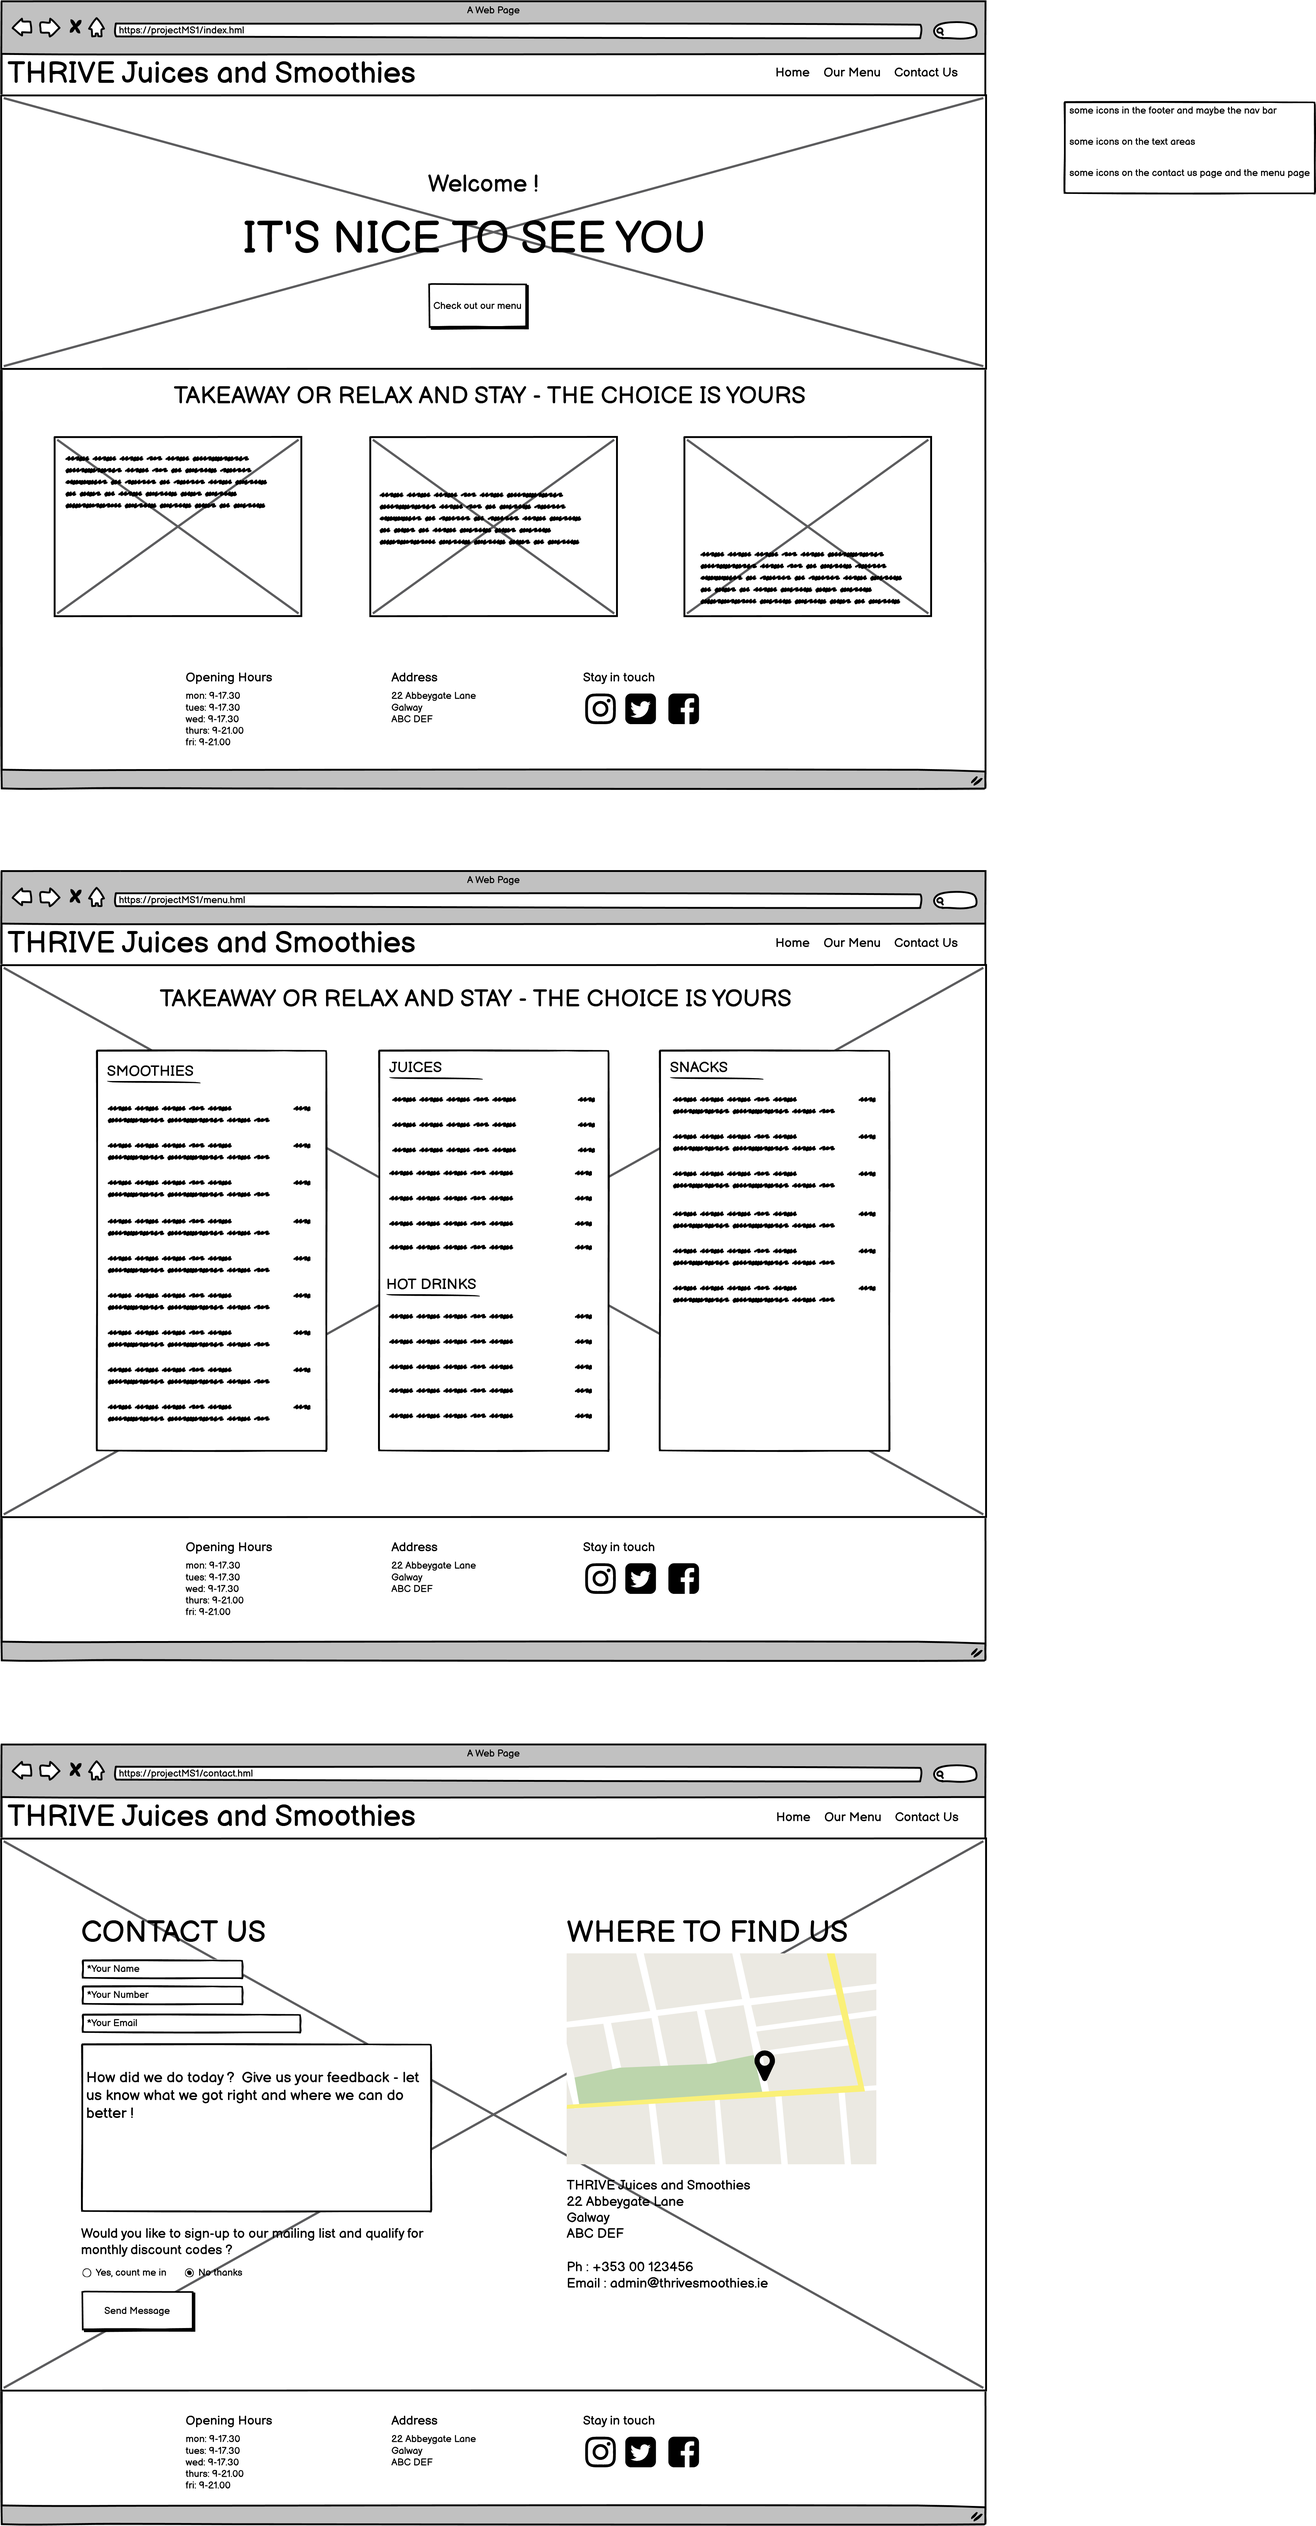
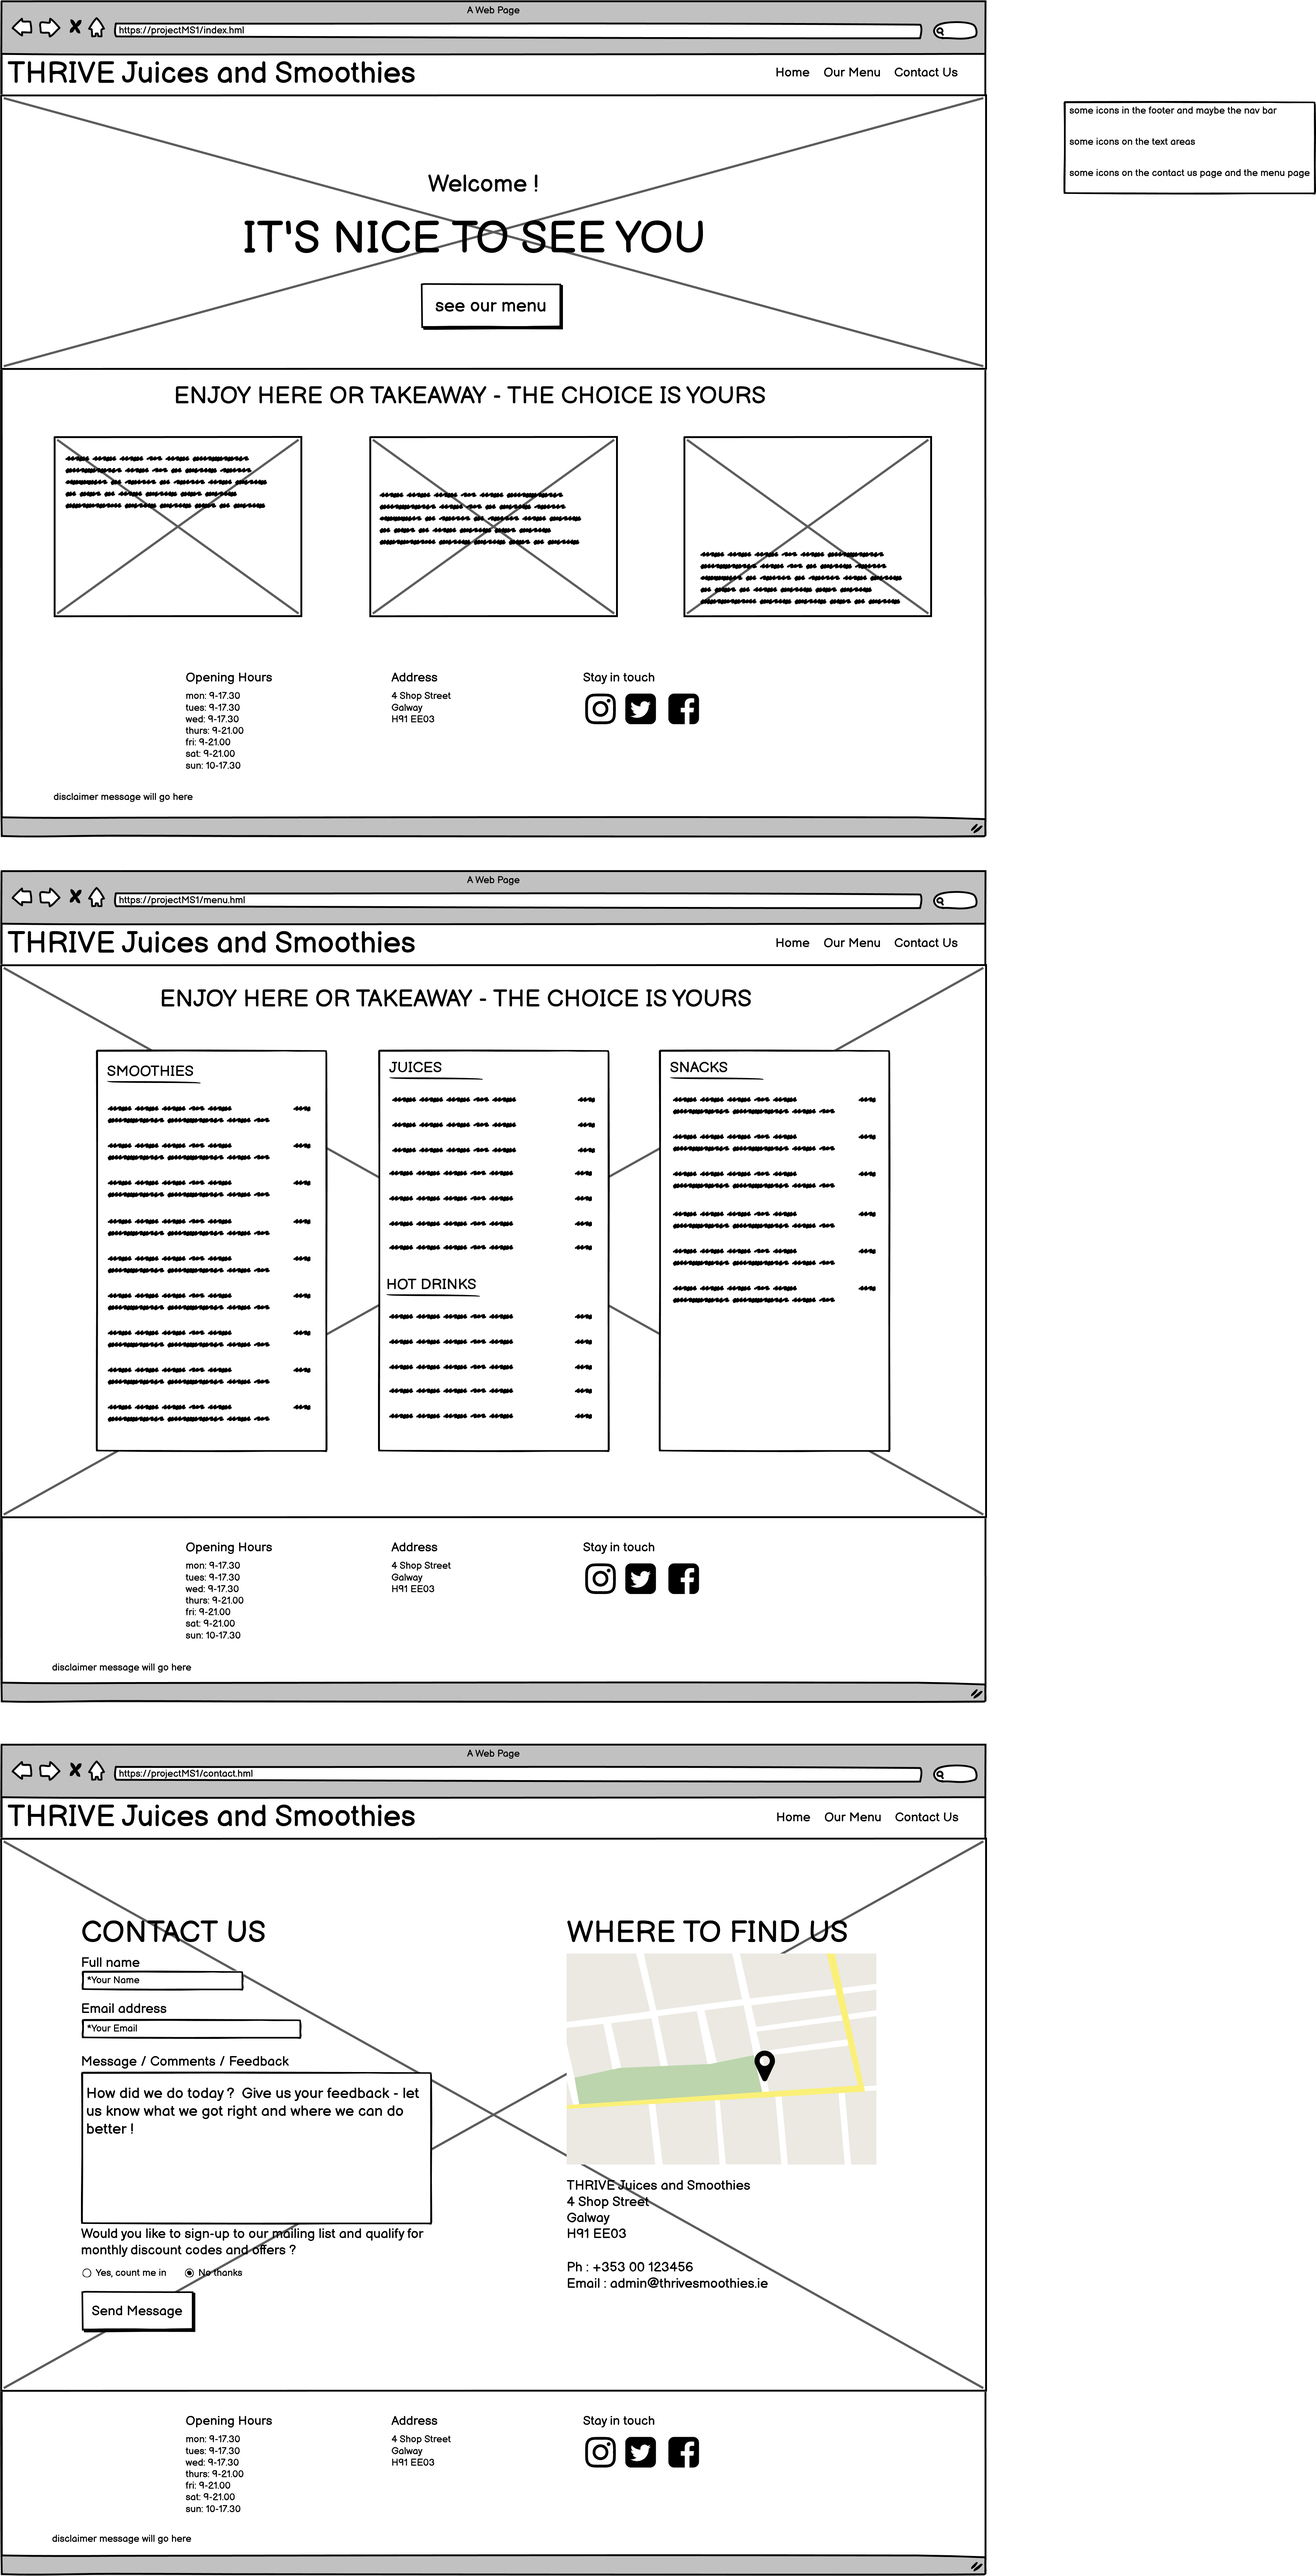
re-structure of middle section of index and menu page to make the code more generic.  Add background image for contact page.  Start work on contact page controls

diff --git a/contact.html b/contact.html
@@ -10,6 +10,9 @@
 
     <link rel="stylesheet" href="assets/css/style.css">
     <title>THRIVE</title>
+
+       <!-- font awesome script -->
+       <script src="https://kit.fontawesome.com/6fbe53beed.js" crossorigin="anonymous"></script>
 </head>
 
 <body>
@@ -32,35 +35,32 @@
             </ul>
         </nav>
     </header>
-    <section class="page-middle">
-        <div id="cust-contact-details">
-            <h2>all the contact details stuff goes here</h2>
-            <form action="submit">
+    <section class="main-section-image">
+        <div >
+            <form form method="POST" action="https://formdump.codeinstitute.net/" class="contact-form">
+                <h2>Contact Us</h2>
                 <label for="fullname">Your full name:</label>
-                <input type="text" id="fullname" name="fullname" placeholder="Your name">
+                <input type="text" class="text-input" id="fullname" name="fullname" placeholder="Your name">
                 <label for="email">Email address:</label>
-                <input type="email" id="email" name="email" placeholder="*Email">
-                <label for="comment">your comment???to be written</label>
-                <textarea id="comment" name="comment" cols="40" rows="5"></textarea>
-                <input type="radio" id="opt-in" name="opt-in" value="in">
-                <label for="opt-in">this is the opt-in option</label><br>
-                <input type="radio" id="opt-out" name="opt-out" value="out" checked>
-                <label for="opt-out">this is the opt-out option</label><br>
-                <input type="submit" value="Submit">
+                <input type="email" class="text-input" id="email" name="email" placeholder="*Email" required>
+                <label for="feedback-comment">Message / Feedback / Comment</label>
+                <textarea id="feedback-comment" class="text-input" name="comment" cols="40" rows="5"></textarea>
+                
+                <input type="radio" id="opt-in" name="consent" value="yes">
+                <label for="opt-in">Yes, count me in</label><br>
+                <input type="radio" id="opt-out" name="consent" value="no" checked>
+                <label for="opt-out">No thanks</label><br>
+
+                <input type="submit" value="Send" class="button">
               </form>
         </div>
-        <div id="google-map-area">
-            <h2>a link out to google maps will go here</h2>
-            
-        </div>
-        <div id="our-contact-details">
-            <h2>address goes here</h2>
-            <div style="width: 100%"><iframe width="100%" height="600" frameborder="0" scrolling="no" marginheight="0" marginwidth="0" src="https://maps.google.com/maps?width=100%25&amp;height=600&amp;hl=en&amp;q=4%20shop%20st,%20galway+(My%20Business%20Name)&amp;t=&amp;z=14&amp;ie=UTF8&amp;iwloc=B&amp;output=embed">
+        <div>
+            <h2>link out to google maps</h2>
+            <div style="width: 300px; height:200px">
+                <iframe width="100%" height="100%" frameborder="0" scrolling="no" marginheight="0" marginwidth="0" src="https://maps.google.com/maps?width=100%25&amp;height=600&amp;hl=en&amp;q=4%20shop%20st,%20galway+(THRIVE%20Juices%20and%20Smoothies)&amp;t=&amp;z=14&amp;ie=UTF8&amp;iwloc=B&amp;output=embed">
             </iframe>
-            <a href="https://www.maps.ie/draw-radius-circle-map/">Radius map calculator</a>
         </div>
-        /*
-        https://www.maps.ie/create-google-map/ - got iframe code here*/
+        
     </section>
     <footer>
         <div id="footer-group"> 
@@ -102,9 +102,12 @@
                 <h3>ADDRESS <i class="far fa-building"></i></h3>
                 <hr>
                 <p class="footer-text">
-                    22 Abbey Lane<br>Galway<br>H91 DF7
+                    4 Shop Street<br>Galway<br>H91 EE03
                 </p>
             </div>
+        </div>
+        <div class="disclaimer footer-text">
+            this website is for educational purposes only
         </div>
     </footer>
 </body>

diff --git a/index.html b/index.html
@@ -42,11 +42,11 @@
             <h3>It's nice to see you</h3>
             <a href="menu.html" class="button">See our menu</a>
         </div>
-    </section>
-    <section id="company-ideals">
+    </section> 
+    <section class="panel-container">
         <h2 id="tagline">enjoy here or takeaway - the choice is yours</h2>
-        <div id="left-ideals">
-            <div class="flip-card">
+        <div class="left-panel">
+          <div class="flip-card">
                 <div class="flip-card-inner">
                     <div class="flip-card-front">
                         <img src="assets/images/thought-catalog-9aOswReDKPo-unsplash.jpg" alt="Strawberry">
@@ -59,7 +59,7 @@
                 </div>
             </div> 
         </div>
-        <div id="right-ideals">
+        <div class="right-panel">
             <div class="flip-card">
                 <div class="flip-card-inner">
                     <div class="flip-card-front">
@@ -73,7 +73,7 @@
                 </div>
             </div> 
         </div>
-        <div id="center-ideals">  
+        <div class="center-panel"> 
             <div class="flip-card">
                 <div class="flip-card-inner">
                     <div class="flip-card-front">
@@ -128,9 +128,12 @@
                 <h3>ADDRESS <i class="far fa-building"></i></h3>
                 <hr>
                 <p class="footer-text">
-                    22 Abbey Lane<br>Galway<br>H91 DF7
+                    4 Shop Street<br>Galway<br>H91 EE03
                 </p>
             </div>
+        </div>
+        <div class="disclaimer footer-text">
+            this website is for educational purposes only
         </div>
     </footer>
 </body>

diff --git a/menu.html b/menu.html
@@ -35,9 +35,10 @@
             </ul>
         </nav>
     </header>
-    <section class="page-middle">
+    <section class="panel-container main-section-image">
+        <h2 id="tagline">enjoy here or takeaway - the choice is yours</h2>
         <div class="left-panel">
-            <h3>this is the left panel</h3>
+            this is the left panel
             <table>
                 <th>this is the header for the table</th>
                 <tr>
@@ -67,7 +68,7 @@
             </table>
         </div>
         <div class="right-panel">
-            <h3>this is the right panel</h3>
+            this is the right panel
             <table>
                 <th>this is the header for the table</th>
                 <tr>
@@ -97,7 +98,7 @@
             </table>
         </div>
         <div class="center-panel">
-            <h3>this is the centre panel</h3>
+            this is the centre panel
             <table>
                 <th>this is the header for the table</th>
                 <tr>
@@ -125,7 +126,6 @@
                 </tr>
                 <tr></tr>
             </table>
-        </div>
         </div>
     </section>
     <footer>
@@ -168,9 +168,13 @@
                 <h3>ADDRESS <i class="far fa-building"></i></h3>
                 <hr>
                 <p class="footer-text">
-                    22 Abbey Lane<br>Galway<br>H91 DF7
+                    4 Shop Street<br>Galway<br>H91 EE03
                 </p>
             </div>
+            
+        </div>
+        <div class="disclaimer footer-text">
+            this website is for educational purposes only
         </div>
     </footer>
 </body>

diff --git a/assets/css/style.css b/assets/css/style.css
@@ -148,7 +148,7 @@ h3 {
 }
 
 /* generic styling to support 3 areas arranged horizontally*/
-.left-panel {
+/*.left-panel {
    border: 1px solid #e1e;
    float:left;
    text-align: left;
@@ -165,11 +165,11 @@ h3 {
    display: inline-block;
    text-align: left;
    margin: 0 auto;
-}
+}*/
 
 
 
-#company-ideals  {
+.panel-container  {
    border: 1px solid #e1e;
    height: 600px;
    margin: 0 auto;
@@ -181,7 +181,6 @@ h3 {
    width: 100%;
    overflow: hidden;
    display: inline-block;
-   border : 1px solid green;
 }
 
 table, th, td {
@@ -189,19 +188,19 @@ table, th, td {
 }
 
 
-#left-ideals {
+.left-panel {
    border: 1px solid #e1e;
    float:left;
    width: 33%;
 }
 
-#right-ideals {
+.right-panel {
    border: 1px solid #e1e;
    float: right;
    width: 33%;
 }
 
-#center-ideals {
+.center-panel {
    border: 1px solid #e1e;
    width: 33%;
    margin: 0 auto;
@@ -302,3 +301,39 @@ hr {
    margin: 8px;
    color: #141414;
 }
+
+.disclaimer {
+   clear: both; 
+   padding-top: 15px; 
+   padding-left: 15px;
+}
+
+.main-section-image {
+   clear: left;
+   background: url("../images/bruna-branco-7r1HxvVC7AY-unsplash-orig.webp");
+   background-size: cover;
+   background-position: center;
+   height: 900px;
+}
+
+.contact-form {
+   margin: 150px 10% 0 0;
+   color: #fff;
+   background-color: rgba(243, 184, 142, 0.9);
+   max-width: 400px;
+   position: absolute;
+   left: 10%;
+   padding: 30px;
+   
+}
+
+.text-input {
+   background: transparent;
+   color: #fafafa;
+   width: 100%;
+   height: 25px;
+   margin: 5px 0 20px 0;
+   border: 1px solid #fafafa;
+   border-radius: 2px;
+}
+

diff --git a/README.md b/README.md
@@ -150,6 +150,7 @@ Click [Here](https://help.github.com/en/github/creating-cloning-and-archiving-re
 -   Code on how to do the fade-in of the hero image came from information on this page : https://blog.hubspot.com/website/css-fade-in
 -   Code on how to do a rounded button as seen on the index.html page was written based on example code on : https://w3schools.com/css/
 -   Code on how to do the flip-card effect on the index.html page was based on example code on : https://w3schools.com/css/
+-   Code on how to include google map with marker was based on code from this site :  https://www.maps.ie/create-google-map/ 
 
 ### Content
 
